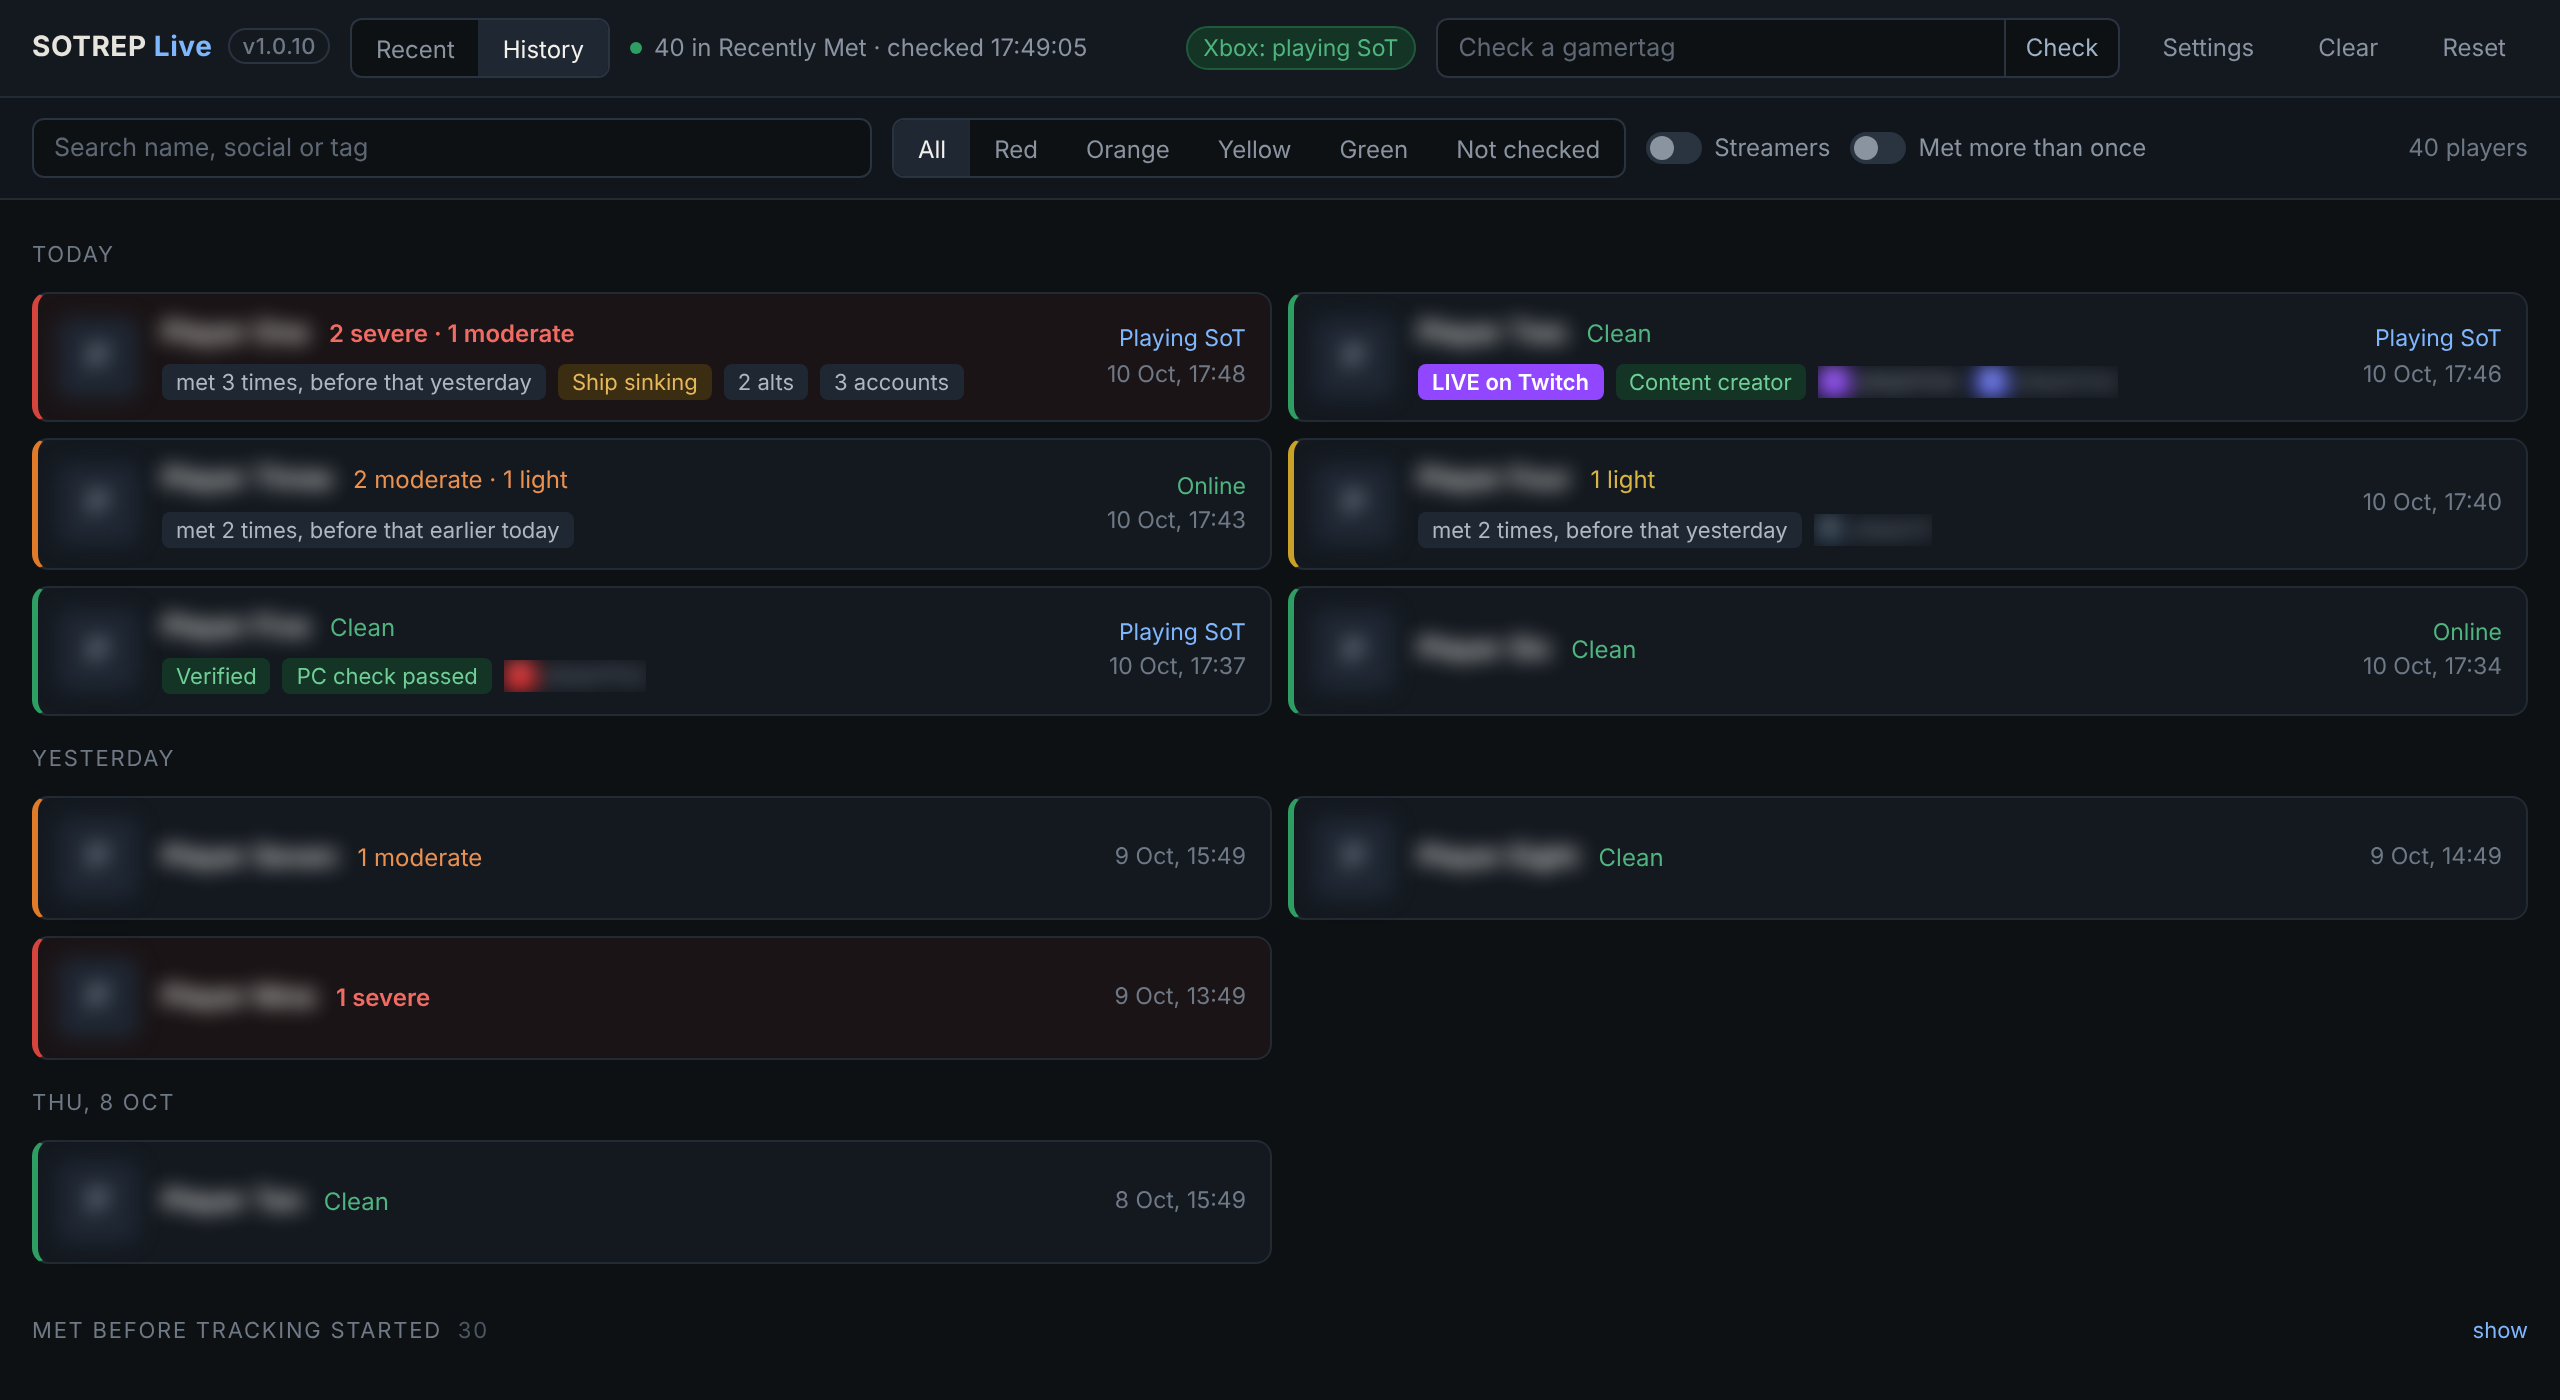
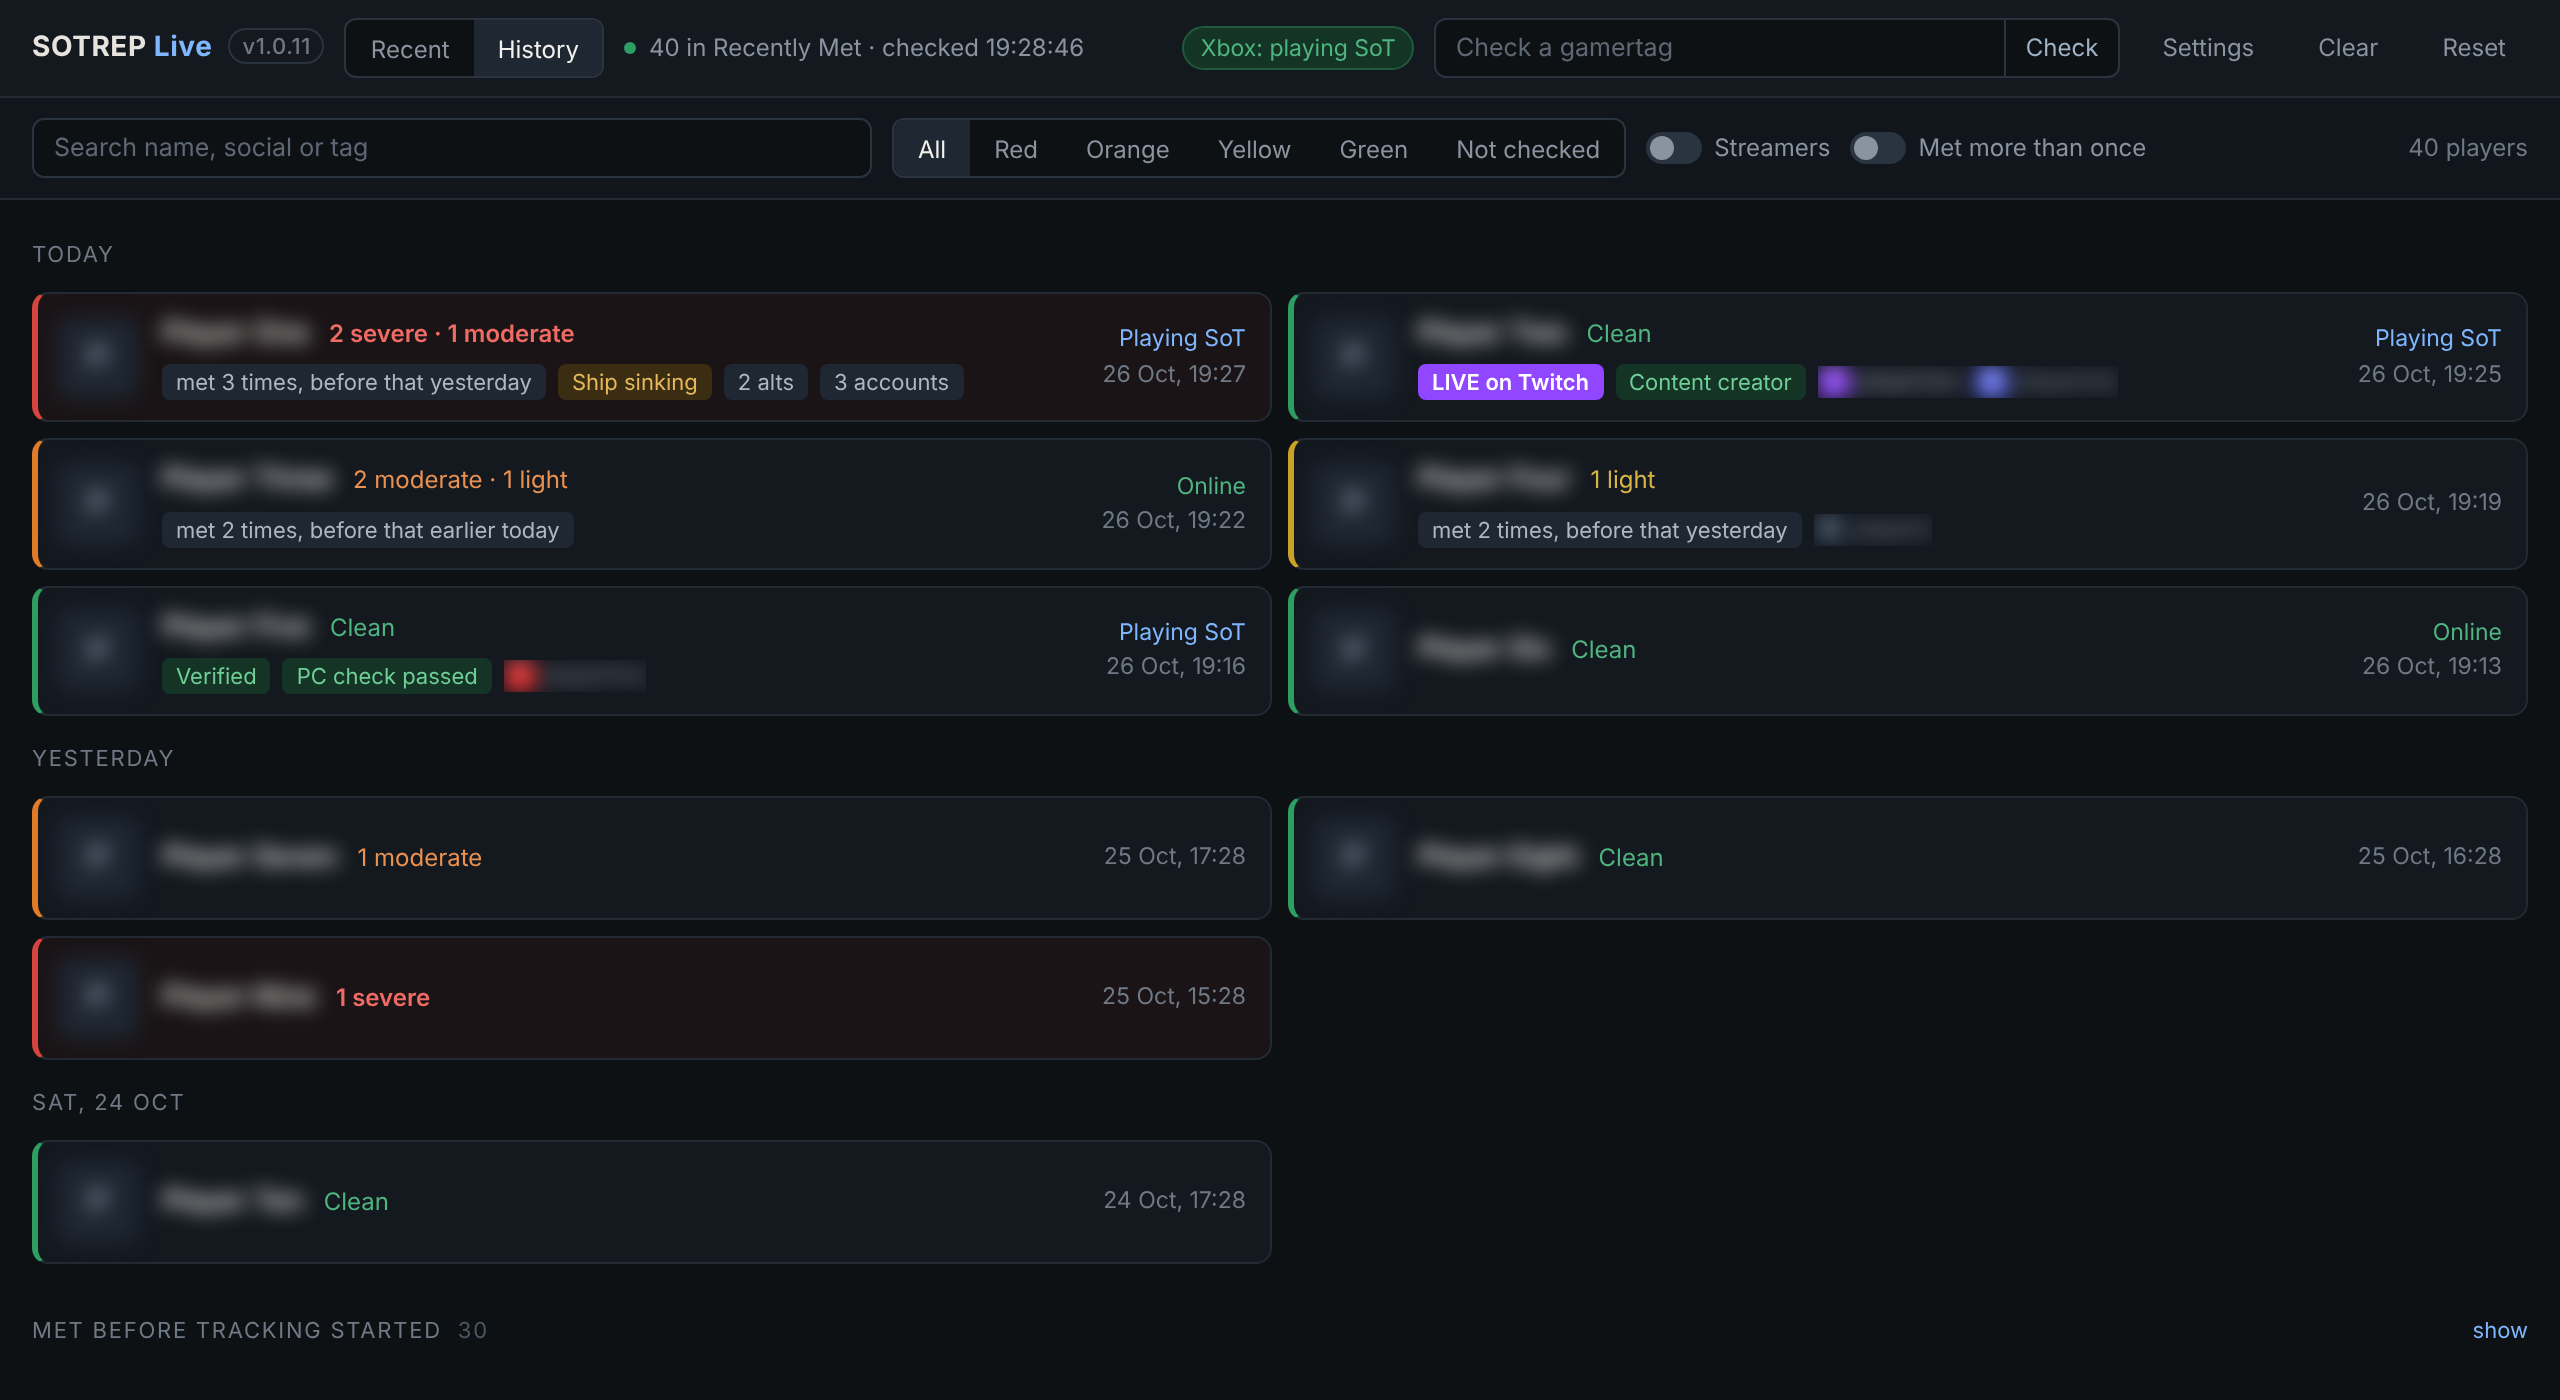
A newly met streamer shows LIVE sooner: a first Twitch check that says not live gets one more look a minute later

diff --git a/sotrep-live.user.js b/sotrep-live.user.js
@@ -1,7 +1,7 @@
 // ==UserScript==
 // @name         SOTREP Live - players I meet
 // @namespace    https://www.sotrep.com/
-// @version      1.0.10
+// @version      1.0.11
 // @description  Watches the Sea of Thieves "Recently Met" list and shows each newly met player with their SOTREP reputation, live, while you play.
 // @homepageURL  https://github.com/MrNickIE/sotrep-live
 // @updateURL    https://raw.githubusercontent.com/MrNickIE/sotrep-live/main/sotrep-live.meta.js
@@ -121,6 +121,7 @@
   };
   const LIVE_TTL_MS = 5 * 60e3;       // how long a Twitch live/offline answer is trusted
   const LIVE_GAP_MS = 2000;           // pause between Twitch page checks
+  const LIVE_FIRST_RECHECK_MS = 60e3; // a first check that says not live (or fails) is trusted only this long, once per streamer
 
   // Restore the whole current session so a refresh does not wipe the board mid-session: newest first, back
   // until a gap over SESSION_GAP_MS. If the newest is itself older than that, a new session starts empty.
@@ -592,6 +593,9 @@
       } else {
         session.live.set(login, { at: Date.now(), live: false, title: '', url, misses: 0, wasLiveAt: prev && prev.wasLiveAt });
       }
+      // Twitch can lag a stream that has just started, and a first answer of "not live" would otherwise stand for
+      // five minutes. So a streamer's first check this session that is not live gets one quick second look.
+      if (!prev && !r.live) session.live.get(login).at = Date.now() - LIVE_TTL_MS + LIVE_FIRST_RECHECK_MS;
       if (nowLive && gt) { state.lives[gt] = new Date().toISOString(); save(['lives']); }   // so the session card can say who was live
       render();
       // alert on the transition to live (or the first time we see them live), not on every re-check
@@ -740,6 +744,9 @@
   // ---------- what's new ----------
   // One short list per release, shown once after an update. A fresh install sees nothing: it has nothing to compare to.
   const WHATS_NEW = {
+    '1.0.11': [
+      'A streamer you have just met shows LIVE much sooner: if the first Twitch check says not live (or fails), it checks once more a minute later instead of waiting five.',
+    ],
     '1.0.10': [
       'Signed out of both sites on a narrow window? Both Sign in buttons now stay visible (the status line wraps).',
       'One fewer request to sotrep.com after you sign back in there.',

diff --git a/tools/test.js b/tools/test.js
@@ -237,6 +237,35 @@ async function fresh(browser, initial, scheme = 'dark', opts = {}) {
     await ctx.close();
   }
 
+  // ----- a first "not live" from Twitch gets one quick second look -----
+  {
+    const init = `
+      window.__skew = 0; window.__tw = 'off';
+      const now = Date.now.bind(Date); Date.now = () => now() + window.__skew;
+      const real = window.GM_xmlhttpRequest;
+      window.GM_xmlhttpRequest = (o) => {
+        if (!o.url.includes('twitch.tv/playertwo')) return real(o);
+        window.__calls.push(o.url);
+        setTimeout(() => o.onload({ status: 200, responseText: window.__tw === 'live' ? '"isLiveBroadcast":true' : '<html></html>', responseHeaders: '' }), 20);
+      };`;
+    const { ctx, page, q, errors } = await fresh(browser, demo.store(), 'dark', { initScript: init });
+    const tw = () => page.evaluate(() => __calls.filter(u => u.includes('twitch.tv/playertwo')).length);
+    eq('first Twitch check made', await tw(), 1);
+    eq('not live at first', await q('.row .tag.live').count(), 0);
+    await page.evaluate(() => { window.__skew += 30e3; });
+    await page.waitForTimeout(22000);
+    eq('no second check inside a minute', await tw(), 1);
+    await page.evaluate(() => { window.__tw = 'live'; window.__skew += 40e3; });
+    await page.waitForTimeout(22000);
+    eq('second check after a minute', await tw(), 2);
+    eq('LIVE shows on the second look', await q('.row .tag.live').count(), 1);
+    await page.evaluate(() => { window.__tw = 'off'; window.__skew += 90e3; });
+    await page.waitForTimeout(22000);
+    eq('then back to every five minutes', await tw(), 2);
+    eq('no page errors on the Twitch recheck', errors, []);
+    await ctx.close();
+  }
+
   // ----- both buttons stay visible on a narrow window -----
   {
     const st = { ...demo.store(), me: null };   // the first sotrep request is our own gamertag, and it gets a 401

diff --git a/sotrep-live.meta.js b/sotrep-live.meta.js
@@ -1,7 +1,7 @@
 // ==UserScript==
 // @name         SOTREP Live - players I meet
 // @namespace    https://www.sotrep.com/
-// @version      1.0.10
+// @version      1.0.11
 // @description  Watches the Sea of Thieves "Recently Met" list and shows each newly met player with their SOTREP reputation, live, while you play.
 // @homepageURL  https://github.com/MrNickIE/sotrep-live
 // @updateURL    https://raw.githubusercontent.com/MrNickIE/sotrep-live/main/sotrep-live.meta.js

diff --git a/README.md b/README.md
@@ -51,7 +51,7 @@ Whatever the browser, allow the one-time requests Tampermonkey shows for sotrep.
 - **Check a gamertag** looks up any name you type, for players you spot in game before Rare registers them. A Twitch channel name works too: if no pirate has that gamertag, sotrep is asked for the pirate linked to that Twitch account.
 - Alerts fire only for players the game registered on its own. Manual lookups (the Check box, History's Look up buttons) never alert.
 - **Settings** opens the alert settings, the display choices and backup. Tick what you want to be told about: red (severe flags or banned accounts), orange (moderate flags), purple (a linked streamer who is live), in any mix. A chime plays in the tab by default. Paste a Discord webhook URL to have flagged players posted to a private channel with the rep summary and a profile link, which is the reliable route while a game has the screen. A Windows desktop notification is also available but is hidden behind a full-screen game. **Test alerts** fires every enabled channel once.
-- **Streamers**: a player whose sotrep profile links a Twitch channel is checked against Twitch when they appear and every five minutes while on the Recent board. If they are live, the row gets a purple **LIVE on Twitch** pill that opens the stream, and the streamer alert fires (chime, Discord embed with the stream link). Offline streamers just show their Twitch link. The panel has a box to test the live check against any channel name.
+- **Streamers**: a player whose sotrep profile links a Twitch channel is checked against Twitch when they appear, once more a minute later if that first check says not live (Twitch can lag a stream that has just started), then every five minutes while on the Recent board. If they are live, the row gets a purple **LIVE on Twitch** pill that opens the stream, and the streamer alert fires (chime, Discord embed with the stream link). Offline streamers just show their Twitch link. The panel has a box to test the live check against any channel name.
 - **Clear** empties the Recent board. **Reset** (press twice) forgets everything and re-baselines.
 
 Left edge and reputation text: green clean, yellow light flags, orange moderate, red severe or banned accounts.

diff --git a/CLAUDE.md b/CLAUDE.md
@@ -9,7 +9,7 @@ Single-file Tampermonkey userscript (`sotrep-live.user.js`) that turns the seaof
 - **Never risk a ban or block.** Every outbound request needs a reason, a frequency and a back-off. Current budget:
   - seaofthieves.com `get-recent-friends`: adaptive polling (20 s while the list changes, 60 s after 10 quiet minutes, 180 s when hidden and quiet 30 min), 20 s timeout, back-off on 401/403/429/5xx, watchdog restarts a stalled loop.
   - sotrep.com: one lookup per new name, 3 s apart, cached 24 h (a player met again reuses it), Retry-After honoured, errored rows never auto-retried. No bulk lookup, ever (the owner's decision). Own presence via `xbl-info` every 5 min visible, 15 min hidden.
-  - twitch.tv: one channel page per live-checked streamer every 5 min, only for the Recent board.
+  - twitch.tv: one channel page per live-checked streamer every 5 min, only for the Recent board. A streamer's first check in a page session that says not live (or fails) gets one extra check 60 s later.
   - GitHub: meta file check every 6 h.
 - **Writing:** UK English. No em dashes or en dashes anywhere (code comments, README, commits, release notes). Plain short commit messages that do not read as AI. Never add a Co-Authored-By trailer or a Claude session link to commits or PRs.
 - **Browsers:** must work in Chrome and Firefox. Firefox rejects `min()` inside `repeat()` in CSS grid.
